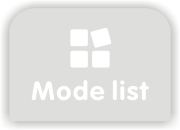
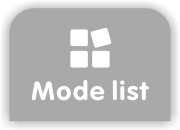
reimplement

diff --git a/Imist/PickSoundVC.m b/Imist/PickSoundVC.m
@@ -17,9 +17,10 @@
 @property (nonatomic,strong) NSMutableArray *defautlist;
 @property (nonatomic,strong) NSMutableArray *soundlist;
 @property (nonatomic,strong) NSMutableArray *musiclist;
-@property (nonatomic,strong) NSMutableArray *selectedMusiclist;
+@property (nonatomic,strong) NSMutableArray *selectedSonglist;
 @property (nonatomic,strong) AVAudioPlayer *player;
 @property (nonatomic,strong) NSMutableDictionary *musicDictionary;
+@property (nonatomic,assign) BOOL selectedInMediaPicker;
 @end
 
 @implementation PickSoundVC
@@ -45,6 +46,8 @@
 //    soundlist = [[NSMutableArray alloc] init];
     musiclist = [[NSMutableArray alloc] init];
     [self loadSound];
+    if(self.selectedSonglist==nil)
+        self.selectedSonglist = [[NSMutableArray alloc]init];
 }
 
 - (void)didReceiveMemoryWarning {
@@ -90,7 +93,7 @@
     if(0 == section){
         return [self.defautlist count];
     }else if(1 == section){
-        return [self.musiclist count];
+        return ([self.selectedSonglist count]+1);
     }else{
         return 1;
     }
@@ -99,30 +102,53 @@
 
 - (void)tableView:(UITableView *)tableView didSelectRowAtIndexPath:(NSIndexPath *)indexPath
 {
-    [player stop];
     if (indexPath.section == 0) {
-        [self playSound:[self.defautlist objectAtIndex:indexPath.row]];
 
         if ( self.selectedSound && [self.selectedSound isEqualToString:[self.defautlist objectAtIndex:indexPath.row] ])
         {
-            self.selectedSound = @"";
+            //self.selectedSound = @"";
+            if(player.isPlaying){
+                [player stop];
+            }
+            else{
+                [self playSound:[self.defautlist objectAtIndex:indexPath.row]];
+            }
         } else {
             self.selectedSound = [self.defautlist objectAtIndex:indexPath.row];
             self.selectedSoundName = self.selectedSound;
+            [self playSound:[self.defautlist objectAtIndex:indexPath.row]];
         }
         
-    }else if(1 == indexPath.section){
-        NSMutableDictionary *musicDict = [self.musiclist objectAtIndex:indexPath.row];
-        player = [[AVAudioPlayer alloc] initWithContentsOfURL:[musicDict objectForKey:@"url"] error:nil];
-        [player play];
-        if (  self.selectedSound && [self.selectedSound isEqualToString:[[musicDict objectForKey:@"url"] absoluteString]])
-        {
-            self.selectedSound = @"";
-        } else {
-            self.selectedSound = [[musicDict objectForKey:@"url"] absoluteString];
-            self.selectedSoundName = [musicDict objectForKey:@"title"];
+    }
+    else if(1 == indexPath.section){
+        if([self.selectedSonglist count] > 0 && indexPath.row < [self.selectedSonglist count]){
+            NSMutableDictionary *musicDict = [self.selectedSonglist objectAtIndex:indexPath.row];
+            
+            if (self.selectedSound && [self.selectedSound isEqualToString:[[musicDict objectForKey:@"url"] absoluteString]])
+            {
+                //self.selectedSound = @"";
+                if(player.isPlaying){
+                    [player stop];
+                }
+                else{
+                    player = [[AVAudioPlayer alloc] initWithContentsOfURL:[musicDict objectForKey:@"url"] error:nil];
+                    [player play];
+                }
+            } else {
+                self.selectedSound = [[musicDict objectForKey:@"url"] absoluteString];
+                self.selectedSoundName = [musicDict objectForKey:@"title"];
+                player = [[AVAudioPlayer alloc] initWithContentsOfURL:[musicDict objectForKey:@"url"] error:nil];
+                [player play];
+            }
         }
-    }else{
+        else{
+            MPMediaPickerController *picker = [[MPMediaPickerController alloc]init];
+            picker.delegate = self;
+            picker.allowsPickingMultipleItems = NO;
+            [self presentViewController:picker animated:YES completion:nil];
+        }
+    }
+    else{
 //        SystemSoundID soundID;
 //        AudioServicesCreateSystemSoundID((__bridge_retained CFURLRef)[self.soundlist objectAtIndex:indexPath.row],&soundID);
 //        AudioServicesPlaySystemSound(soundID);
@@ -156,18 +182,26 @@
         {
             cell.accessoryType = UITableViewCellAccessoryNone;
         }
-    }else if(1 == indexPath.section){
-        NSMutableDictionary *musicDict = [self.musiclist objectAtIndex:indexPath.row];
-        if ( [self.selectedSound isEqualToString:[[musicDict objectForKey:@"url"]  absoluteString]])
-        {
-            cell.accessoryType = UITableViewCellAccessoryCheckmark;
+    }
+    else if(1 == indexPath.section){
+        if([self.selectedSonglist count]>0 && indexPath.row < [self.selectedSonglist count]){
+            NSMutableDictionary *musicDict = [self.selectedSonglist objectAtIndex:indexPath.row];
+            if ( [self.selectedSound isEqualToString:[[musicDict objectForKey:@"url"]  absoluteString]])
+            {
+                cell.accessoryType = UITableViewCellAccessoryCheckmark;
+            }
+            else
+            {
+                cell.accessoryType = UITableViewCellAccessoryNone;
+            }
+            cell.textLabel.text = [musicDict valueForKey:@"title"];
         }
-        else
-        {
-            cell.accessoryType = UITableViewCellAccessoryNone;
+        else {
+            cell.textLabel.text = @"Pick a song";
+            cell.accessoryType = UITableViewCellAccessoryDisclosureIndicator;
         }
-        cell.textLabel.text = [musicDict valueForKey:@"title"];
-    }else {
+    }
+    else {
 //        cell.textLabel.text = [[self.soundlist objectAtIndex:indexPath.row] lastPathComponent];
 //        if ([self.selectedSound isEqualToString:[[self.soundlist objectAtIndex:indexPath.row] lastPathComponent]])
 //        {
@@ -194,27 +228,40 @@
     
     MPMediaItem *item = [[collection items] objectAtIndex:0];
     
-    self.selectedSoundName = [item valueForProperty:MPMediaItemPropertyTitle];
+    if(self.musicDictionary==nil)
+        self.musicDictionary = [[NSMutableDictionary alloc]init];
     [self.musicDictionary setValue:[item valueForProperty:MPMediaItemPropertyTitle] forKey:@"title"];
-    [self.musicDictionary setValue:[item valueForProperty:MPMediaItemPropertyAssetURL]forKey:@"url"];
+    [self.musicDictionary setValue:[item valueForProperty:MPMediaItemPropertyAssetURL] forKey:@"url"];
     
     NSURL *url = [item valueForProperty:MPMediaItemPropertyAssetURL];
     //Play the item using AVPlayer
     self.player = [[AVAudioPlayer alloc] initWithContentsOfURL:url error:nil];
     [self.player play];
+    self.selectedInMediaPicker = YES;
 }
 
 -(void)mediaPickerDidCancel:(MPMediaPickerController *)mediaPicker{
     /*insert your code*/
     [self dismissModalViewControllerAnimated:YES];
-    [self.player stop];
-   
-    if([self.selectedMusiclist containsObject:self.musicDictionary] == NO){
-        [self.selectedMusiclist addObject:self.musicDictionary];
-        NSIndexPath *indexPathAudioRow = [NSIndexPath indexPathForRow:[self.selectedMusiclist count]-1 inSection:1];
-        UITableViewCell *cell = [self.soundTable cellForRowAtIndexPath:indexPathAudioRow];
-        cell.detailTextLabel.text = self.selectedSoundName;
-
+    if(self.selectedInMediaPicker == YES){//selected some song
+        self.selectedInMediaPicker = NO;
+        [self.player stop];
+        self.selectedSoundName = [self.musicDictionary valueForKey:@"title"];
+        self.selectedSound =  [[self.musicDictionary valueForKey:@"url"] absoluteString];
+        if([self.selectedSonglist containsObject:self.musicDictionary] == NO){
+            [self.selectedSonglist addObject:self.musicDictionary];
+            self.musicDictionary = nil;
+            //NSIndexPath *indexPathAudioRow = [NSIndexPath indexPathForRow:[self.selectedSonglist count]-1 inSection:1];
+            //UITableViewCell *cell = [self.soundTable cellForRowAtIndexPath:indexPathAudioRow];
+            //cell.detailTextLabel.text = self.selectedSoundName;
+            //[self.soundTable beginUpdates];
+            //[self.soundTable insertRowsAtIndexPaths:@[indexPathAudioRow] withRowAnimation:UITableViewRowAnimationFade];
+            //[self.soundTable endUpdates];
+            [self.soundTable reloadData];
+        }
+        else{
+            [self.soundTable reloadData];//update the checkmark
+        }
     }
 }
 

diff --git a/Imist/AppDelegate.m b/Imist/AppDelegate.m
@@ -62,6 +62,23 @@
     [self.window makeKeyAndVisible];
     self.defaultBTServer = [BTServer defaultBTServer];
     
+    UILocalNotification * localNotify = [launchOptions objectForKey:UIApplicationLaunchOptionsLocalNotificationKey];
+    if(localNotify)
+    {
+        if (self.player1) {
+            [self.player1 stop];
+            self.player1 = nil;
+        }
+        if (self.player2) {
+            [self.player2 stop];
+            self.player2 = nil;
+        }
+        if (self.player3) {
+            [self.player3 stop];
+            self.player3 = nil;
+        }
+    }
+    
     self.alarm1Timers = [[NSMutableArray alloc]init];
     self.alarm2Timers = [[NSMutableArray alloc]init];
     self.alarm3Timers = [[NSMutableArray alloc]init];
@@ -317,6 +334,19 @@
 didReceiveLocalNotification:(UILocalNotification *)notification {
     UIApplicationState state = application.applicationState;
     NSLog(@"%@,%ld",notification,state);
+    if (self.player1) {
+        [self.player1 stop];
+        self.player1 = nil;
+    }
+    if (self.player2) {
+        [self.player2 stop];
+        self.player2 = nil;
+    }
+    if (self.player3) {
+        [self.player3 stop];
+        self.player3 = nil;
+    }
+
     if (state == UIApplicationStateActive) {
         [self wakeup];
         UIAlertView *alert = [[UIAlertView alloc] initWithTitle:@"Diffuser Wakeup"

diff --git a/Imist/SettingModeVC.m b/Imist/SettingModeVC.m
@@ -28,14 +28,15 @@ typedef enum{
     //if(!self.title) self.title = title;
     self.title = self.appDelegate.defaultBTServer.selectPeripheralInfo.name;
     self.navigationController.navigationBar.topItem.title = self.title;
-
+    
     UIButton *leftBtn = [UIButton buttonWithType:UIButtonTypeCustom];
     [leftBtn setFrame:CGRectMake( 0, 0, 44, 44)];
     [leftBtn setImage:[UIImage imageNamed:@"back-arrow.png"] forState:UIControlStateNormal];
     [leftBtn addTarget:self action:@selector(backAction:) forControlEvents:UIControlEventTouchUpInside];
     UIBarButtonItem *leftItem = [[UIBarButtonItem alloc] initWithCustomView:leftBtn];
     self.navigationItem.leftBarButtonItem = leftItem;
-    self.view.backgroundColor=[UIColor whiteColor];
+    //self.view.backgroundColor=[UIColor whiteColor];
+    self.view.backgroundColor = [UIColor colorWith256Red:222 green:222 blue:221];
     
     UILabel *automode = [[UILabel alloc] initWithFrame:CGRectMake(0, 30, self.view.frame.size.width,18)];
     [automode setFont:[UIFont boldSystemFontOfSize:18]];

diff --git a/Imist/AddAlarmVC.m b/Imist/AddAlarmVC.m
@@ -101,7 +101,7 @@
     //    soundBtn.frame = CGRectMake((self.view.frame.size.width - 140)/2, 300, 140, 44);
     //    [soundBtn addTarget:self action:@selector(soundClick:) forControlEvents:UIControlEventTouchUpInside];
     //    [self.view addSubview:soundBtn];
-    UITableView *_table=[[UITableView alloc] initWithFrame:CGRectMake(0, 260, self.view.frame.size.width,  self.view.frame.size.height) style:UITableViewStyleGrouped];
+    UITableView *_table=[[UITableView alloc] initWithFrame:CGRectMake(10, 260, self.view.frame.size.width-20,  self.view.frame.size.height-260) style:UITableViewStyleGrouped];
     _table.autoresizingMask = (UIViewAutoresizingFlexibleWidth |
                                UIViewAutoresizingFlexibleHeight);
     _table.delegate = self;

diff --git a/Imist/SettingAlerm.m b/Imist/SettingAlerm.m
@@ -24,7 +24,8 @@
     //if(!self.title) self.title = title;
     self.title = self.appDelegate.defaultBTServer.selectPeripheralInfo.name;
     self.navigationController.navigationBar.topItem.title = self.title;
-    self.view.backgroundColor=[UIColor whiteColor];    
+    //self.view.backgroundColor=[UIColor whiteColor];
+    self.view.backgroundColor = [UIColor colorWith256Red:222 green:222 blue:221];
     
     //init device tableview
     UITableView *_table=[[UITableView alloc] initWithFrame:CGRectMake(0, 20, self.view.frame.size.width,  self.view.frame.size.height) style:UITableViewStylePlain];

diff --git a/Imist/SettingUser.m b/Imist/SettingUser.m
@@ -39,7 +39,8 @@
     
     UIBarButtonItem *leftItem = [[UIBarButtonItem alloc] initWithCustomView:leftBtn];
     self.navigationItem.leftBarButtonItem = leftItem;
-    self.view.backgroundColor=[UIColor whiteColor];
+    //self.view.backgroundColor=[UIColor whiteColor];
+    self.view.backgroundColor = [UIColor colorWith256Red:222 green:222 blue:221];
     
     UIButton *modeBtn = [UIButton buttonWithType:UIButtonTypeCustom];
     [modeBtn setBackgroundImage:[UIImage imageNamed:@"bg_btn_green.png"] forState:UIControlStateNormal];

diff --git a/Imist/BaseViewController.m b/Imist/BaseViewController.m
@@ -39,7 +39,7 @@
     self.navigationController.navigationBar.barTintColor=[UIColor colorWith256Red:129 green:189 blue:82];
     self.navigationController.navigationBar.translucent=NO;
     self.view.backgroundColor=[UIColor clearColor];
-    self.view.backgroundColor = [UIColor colorWith256Red:229 green:229 blue:229];
+    self.view.backgroundColor = [UIColor colorWith256Red:222 green:222 blue:221];
 }
 
 - (void)viewDidUnload
